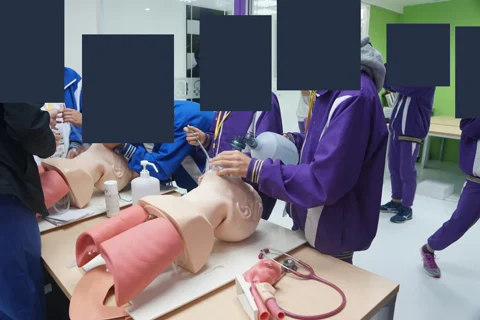
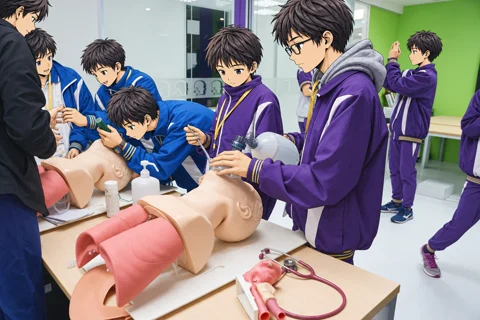
Use manga faces for classroom photo de-identification

diff --git a/content.html b/content.html
@@ -245,6 +245,7 @@
 </article>
 <article id="photos" class="feature-content">
   <h2>活動照片</h2>
+  <p>相簿中的人物臉孔已用漫畫角色替換。</p>
   <ul class="photo-grid" aria-label="活動相簿">
     <li>
       <a href="assets/classroom/media/gallery/01.webp" data-photo data-width="1200" data-height="801">

diff --git a/WORK-PROGRESS.md b/WORK-PROGRESS.md
@@ -4,7 +4,7 @@
 
 ## 接續位置
 
-- **2026-11-20 公開照片去識別化**：恢復七／八／九年級原有的漫畫化課程照片、3D 活動展板及 12 則相簿。相簿、成果合照及學習理念照片以不透明區塊遮蔽可辨識臉孔，再輸出為 WebP；相簿縮圖取自同一批去識別化大圖。3D 展板沿用既有漫畫化素材，並重新輸出首頁全景縮圖。原始照片留在公開版控之外。
+- **2026-11-20 公開照片去識別化**：保留七／八／九年級原有的漫畫化課程照片及 3D 活動展板。12 張相簿照片、兩張成果合照及學習理念照片以虛構漫畫角色替換臉孔，再輸出為 WebP；相簿縮圖由同一批去識別化大圖輸出。原始照片留在公開版控之外。
 
 - **2026-11-17 學習理念／三年課程擴寫、去識別化課程照片與榮譽榜年度卡片牆改版**：
   - **學習理念與三年課程擴寫（`content.html`、`data/classroom/content.json`、`scene-materials.js`）**：結合《數理資優課程簡介2026.pptx》與本機網站資料，補齊 Renzulli 三合充實模式、平行課程設計、游森棚教授中學資優生四項需求與 Double Care 支持；擴寫七／八／九年級課程安排與跨年級學習體驗；移除 3D 教室「三年課程規劃表」所有節數數字並整併共通課程色條。
